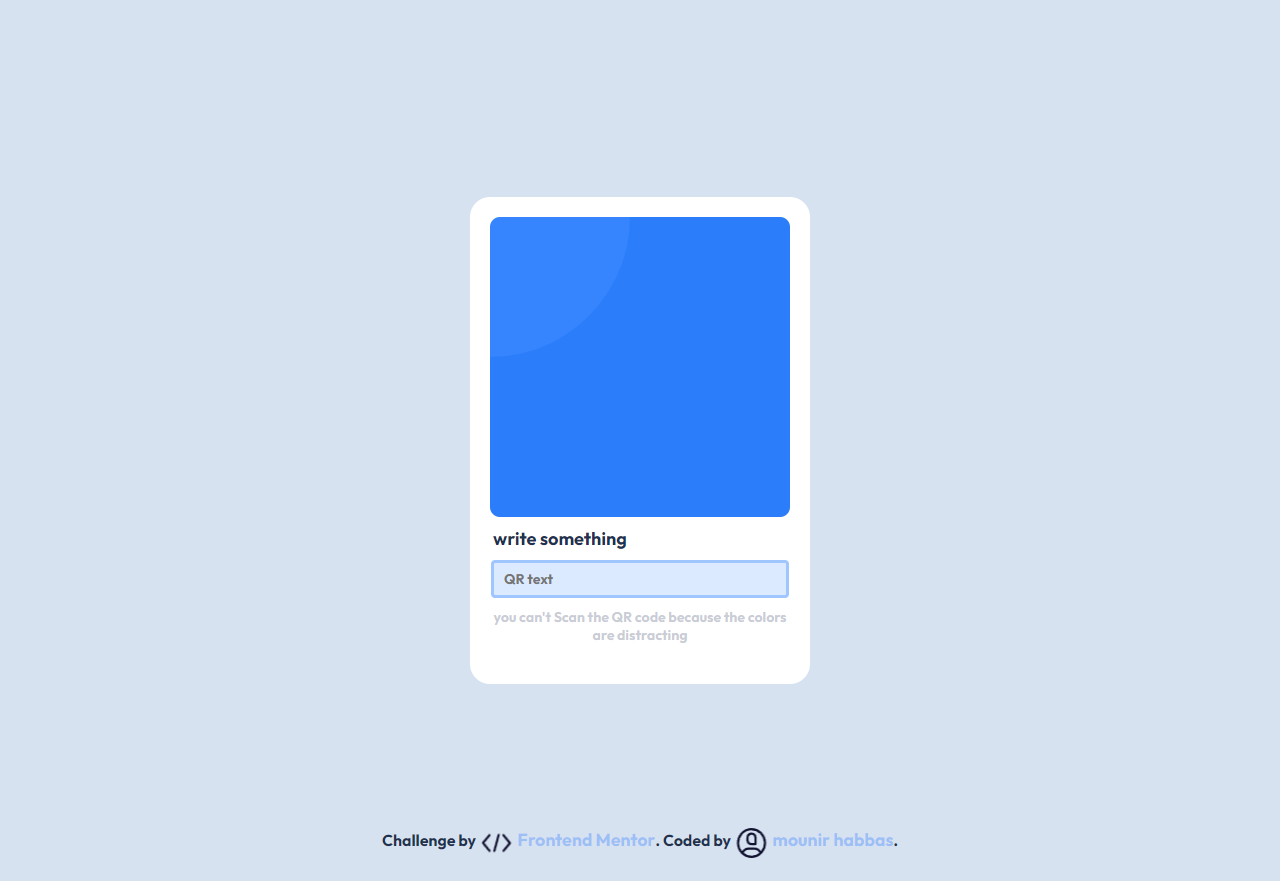
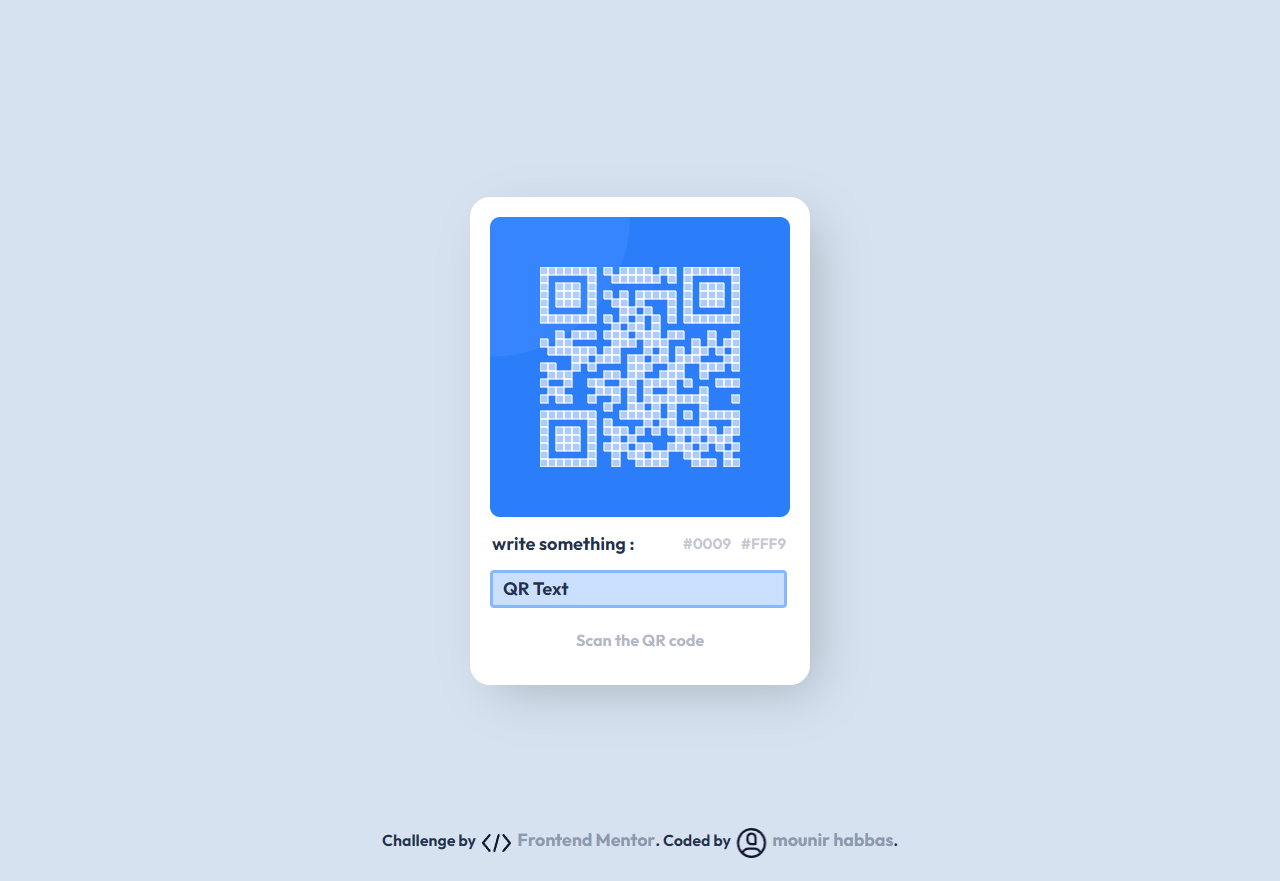
QR-code V:00.00.02

diff --git a/index.html b/index.html
@@ -1,0 +1,283 @@
+<!DOCTYPE html>
+<html lang="en">
+<head>
+  <meta charset="UTF-8">
+  <meta name="viewport" content="width=device-width, initial-scale=1.0"> <!-- displays site properly based on user's device -->
+  <script src="https://cdn.rawgit.com/davidshimjs/qrcodejs/gh-pages/qrcode.min.js"></script>
+  <script src="https://cdnjs.cloudflare.com/ajax/libs/jquery/3.3.1/jquery.min.js"></script>
+  
+  <link rel="icon" type="image/png" sizes="32x32" href="./images/favicon-32x32.png">
+  
+  <title>Frontend Mentor | QR code component</title>
+
+  <style>
+    @import url('https://fonts.googleapis.com/css2?family=Outfit:wght@400;700&display=swap');
+        body{
+            background: hsl(212, 45%, 89%);
+            box-sizing: border-box ;
+            display: flex;
+            justify-content: center;
+            align-items: center;    
+            height: 100vh;
+        }
+        *{
+            margin: 0;
+            font-family: 'Outfit', sans-serif;
+            user-select: none;
+            -webkit-user-drag: none;
+        }
+        .card{
+            background-color: hsl(0, 0%, 100%);
+            width: 300px;
+            padding: 20px;
+            border-radius: 20px;
+
+            box-shadow: 15px 15px 50px -10px rgba(0, 0, 0, 0.205) ;
+            display: flex;
+            justify-content: center;
+            flex-direction: column;
+            gap: 15px;
+        }
+        .card__main{
+            background: url(./images/blob-haikei.svg)  ;
+            opacity: 1;
+            height: 300px;
+            width: 300px;
+            border-radius: 10px;
+            display: flex;
+            justify-content: center;
+            align-items: center;   
+
+        }
+        .card__header{
+            display:flex;
+            justify-content: space-between;
+            align-items: center;    
+        }
+        .header__color{
+            display: flex;
+            gap: 10px;
+            padding-right: 4px;
+            font-size: 18px;
+            /* width: 50px; */
+            /* overflow-x:scroll; */
+
+        }
+        .header__color h5{
+            color: hsla(219, 15%, 55%, 0.452);
+        }
+        .header__color h5:hover{
+            color: hsla(217, 45%, 22%, 0.616);
+            cursor: pointer;
+        }
+        h3{
+            /* width: 100%; */
+            font-size: 18px;
+            font-weight: 700;
+            color: hsl(217, 45%, 22%);
+            margin-left: 2px;
+ 
+        }
+        #inputUser{ 
+            width: 93%;
+            height: 30px;
+            outline: none;
+            border-radius: 4px;
+            font-size: 18px;
+            font-weight: 900;
+            padding-left: 10px;
+            border: 3px solid #2c7efa6c;
+            background-color: #3686ff42;
+            color: hsl(217, 45%, 22%);
+        }
+        #inputUser:hover{ 
+            border: 3px solid #2c7efa6c;
+            background-color: #3686ff59;
+        }
+        #inputUser:focus{ 
+            border: 3px solid #2c7efa6c;
+            background-color: #3f8afc5d;
+        }
+        #inputUser::-webkit-input-placeholder{ 
+            color:  hsla(218, 18%, 51%, 0.801);
+            font-size: 16px;
+        }
+        #inputUser::selection{ 
+            color:  hsla(218, 18%, 51%, 0.801);
+
+        }
+
+        .message {
+            color: hsla(219, 15%, 55%, 0.582);
+            text-align: center;
+            font-size: 16px;
+            font-weight: 700;
+            margin: 7px;
+            margin-bottom: 15px;
+            height: 20px;
+
+        }
+        .message__text{
+            color: hsla(219, 15%, 55%, 0.582);
+            font-size: 14px;
+            font-weight: 700;
+        }
+        .message__text a{
+            color: rgba(241, 16, 0, 0.521);
+            cursor: none;
+            
+        }            
+        .message__text a:hover{
+            text-decoration: line-through;
+        }
+        .attribution { 
+    font-size: 1.8vh;
+    text-align: center;
+    padding-top: 2rem;
+    padding-bottom: 1rem;
+    width: 70vw;
+    position: fixed;
+    bottom: 0.5vh;
+    right:  15%;
+    z-index: 9999;
+    color:hsl(217, 45%, 22%);
+    font-weight: 600;
+    }
+    .attribution a {
+        font-size: 2vh;
+        color:hsla(219, 15%, 55%, 0.801);;
+        text-decoration: none;
+    }
+    .attribution a:hover{
+        color:#2c7efacc;
+    }
+  </style>
+</head>
+<body>
+<div class="card">
+    <div class="card__main">
+        <div id="qrcode">
+
+            </div>
+ 
+ 
+    </div>
+    <div class="card__header"> 
+    <h3>  write something :</h3>   
+    <div class="header__color"> 
+
+        <h5 class="QRcolor" id="#0009">#0009</h5>
+        <h5 class="QRcolor" id="#FFF9">#FFF9</h5>
+    </div>
+       
+    
+     
+    </div>
+
+
+    <form  id='#QR__form' action="">
+        <input  name="user" id="inputUser" type="text" placeholder="QR text " value=""/>
+        </form>
+    <div class="message">
+        <p>Scan the QR code</p>
+    </div>
+
+</div>
+<div class="attribution">
+    Challenge by 
+    <lord-icon
+        src="https://cdn.lordicon.com/etllbcfy.json"
+        trigger="hover"
+        style="width:4vh;height:4vh"
+        >
+  
+      </lord-icon>
+    <a href="https://www.frontendmentor.io?ref=challenge" target="_blank">Frontend Mentor</a>. 
+    Coded by<script src="https://cdn.lordicon.com/xdjxvujz.js"></script>
+  
+        <script src="https://cdn.lordicon.com/xdjxvujz.js"></script>
+  <lord-icon
+    src="https://cdn.lordicon.com/dklbhvrt.json"
+    trigger="hover"
+    style="width:4vh;height:4vh;">
+  
+    </lord-icon>
+    <a href="https://github.com/HabbasMounir">mounir habbas</a>.
+  </div>
+
+
+
+
+
+
+
+<script>
+
+//      The code remains just an experiment,
+//      but there are other opportunities to develop it,
+//      such as adding a download and copy button,
+//      but I can't get excited and I can come back to it in the future
+//      if I have the time and any developer can modify it
+
+//I had added some animations, but I deleted the whole code
+
+    let inputUser=document.querySelector("[name='user']");
+    let main__color="#fff9";
+    let qrcode=document.getElementById("qrcode")
+    let qrColor= document.querySelectorAll(".QRcolor");
+    
+    qrColor.forEach((ele,i) => {
+        ele.addEventListener("click",function (){ 
+            qrColor.forEach(element => {
+                element.style.color="hsla(219, 15%, 55%, 0.452)";
+            })
+            ele.style.color="hsla(217, 45%, 22%, 0.616)"
+            main__color=`${ele.id}`
+            let message=document.querySelector(".message")
+
+            i==1
+            ?message.innerHTML=`<p class="message__text">Probably you can't Scan the QR code  
+                <br>   <a>#FFF9 </a> </p> `:
+            message.innerHTML="Scan the QR code"
+
+
+            qrcode.innerHTML="";
+            setTimeout(() => {
+        let inputQR=inputUser.value;
+        qrcode.innerHTML="";
+        new QRCode(qrcode, {
+	            text: `${inputQR}`,
+        	    width: 200,
+	            height: 200,
+	            colorDark : main__color,
+	            colorLight : "#0000",
+        	    correctLevel : QRCode.CorrectLevel.H
+        } );
+        }, 0)
+        })
+    });
+
+
+    document.forms[0].onkeypress= function(e){
+
+ 
+    setTimeout(() => {
+    let inputQR=inputUser.value;
+        qrcode.innerHTML="";
+    
+    new QRCode(qrcode, {
+	        text: `${inputQR}`,
+        	width: 200,
+	        height: 200,
+	        colorDark : main__color,
+	        colorLight : "#0000",
+        	correctLevel : QRCode.CorrectLevel.H
+} );
+        qrcode.title=""; 
+        qrcode.style.cursor="none"; 
+    }, 0)
+    } 
+</script>
+
+</body>
+</html>

diff --git a/README.md b/README.md
@@ -1,6 +1,6 @@
-# Frontend Mentor - Expenses chart component
+# Frontend Mentor - QR code component
 
-![Design preview for the Expenses chart component coding challenge](./design/desktop-design.png)
+![Design preview for the QR code component coding challenge](./design/mobile-design.jpg)
 
 ## Welcome! 👋
 
@@ -8,23 +8,13 @@ Thanks for checking out this front-end coding challenge.
 
 [Frontend Mentor](https://www.frontendmentor.io) challenges help you improve your coding skills by building realistic projects.
 
-**To do this challenge, you need a decent understanding of HTML, CSS and JavaScript.**
+**To do this challenge, you need a basic understanding of HTML and CSS.**
 
 ## The challenge
 
-Your challenge is to build out this bar chart component and get it looking as close to the design as possible.
+Your challenge is to build out this QR code component and get it looking as close to the design as possible.
 
 You can use any tools you like to help you complete the challenge. So if you've got something you'd like to practice, feel free to give it a go.
-
-We provide the data for the chart in a local `data.json` file. So you can use that to dynamically add the bars if you choose.
-
-Your users should be able to:
-
-- View the bar chart and hover over the individual bars to see the correct amounts for each day
-- See the current day's bar highlighted in a different colour to the other bars
-- View the optimal layout for the content depending on their device's screen size
-- See hover states for all interactive elements on the page
-- **Bonus**: See dynamically generated bars based on the data provided in the local JSON file
 
 Want some support on the challenge? [Join our Slack community](https://www.frontendmentor.io/slack) and ask questions in the **#help** channel.
 

diff --git a/README-template.md b/README-template.md
@@ -1,11 +1,10 @@
-# Frontend Mentor - Expenses chart component solution
+# Frontend Mentor - QR code component solution
 
-This is a solution to the [Expenses chart component challenge on Frontend Mentor](https://www.frontendmentor.io/challenges/expenses-chart-component-e7yJBUdjwt). Frontend Mentor challenges help you improve your coding skills by building realistic projects. 
+This is a solution to the [QR code component challenge on Frontend Mentor](https://www.frontendmentor.io/challenges/qr-code-component-iux_sIO_H). Frontend Mentor challenges help you improve your coding skills by building realistic projects. 
 
 ## Table of contents
 
 - [Overview](#overview)
-  - [The challenge](#the-challenge)
   - [Screenshot](#screenshot)
   - [Links](#links)
 - [My process](#my-process)
@@ -19,16 +18,6 @@ This is a solution to the [Expenses chart component challenge on Frontend Mentor
 **Note: Delete this note and update the table of contents based on what sections you keep.**
 
 ## Overview
-
-### The challenge
-
-Users should be able to:
-
-- View the bar chart and hover over the individual bars to see the correct amounts for each day
-- See the current day’s bar highlighted in a different colour to the other bars
-- View the optimal layout for the content depending on their device’s screen size
-- See hover states for all interactive elements on the page
-- **Bonus**: Use the JSON data file provided to dynamically size the bars on the chart
 
 ### Screenshot
 

diff --git a/style-guide.md b/style-guide.md
@@ -9,25 +9,18 @@ The designs were created to the following widths:
 
 ## Colors
 
-### Primary
-
-- Soft red: hsl(10, 79%, 65%)
-- Cyan: hsl(186, 34%, 60%)
-
-### Neutral
-
-- Dark brown:                                                   hsl(25, 47%, 15%)
-- Medium brown:                                                 hsl(28, 10%, 53%)
-- Cream:                                                        hsl(27, 66%, 92%)
-- Very pale orange:                                                hsl(33, 100%, 98%)
+- White: hsl(0, 0%, 100%)
+- Light gray: hsl(212, 45%, 89%)
+- Grayish blue: hsl(220, 15%, 55%)
+- Dark blue: hsl(218, 44%, 22%)
 
 ## Typography
 
 ### Body Copy
 
-- Font size: 18px
+- Font size (paragraph): 15px
 
 ### Font
 
-- Family: [DM Sans](https://fonts.google.com/specimen/DM+Sans)
+- Family: [Outfit](https://fonts.google.com/specimen/Outfit)
 - Weights: 400, 700
